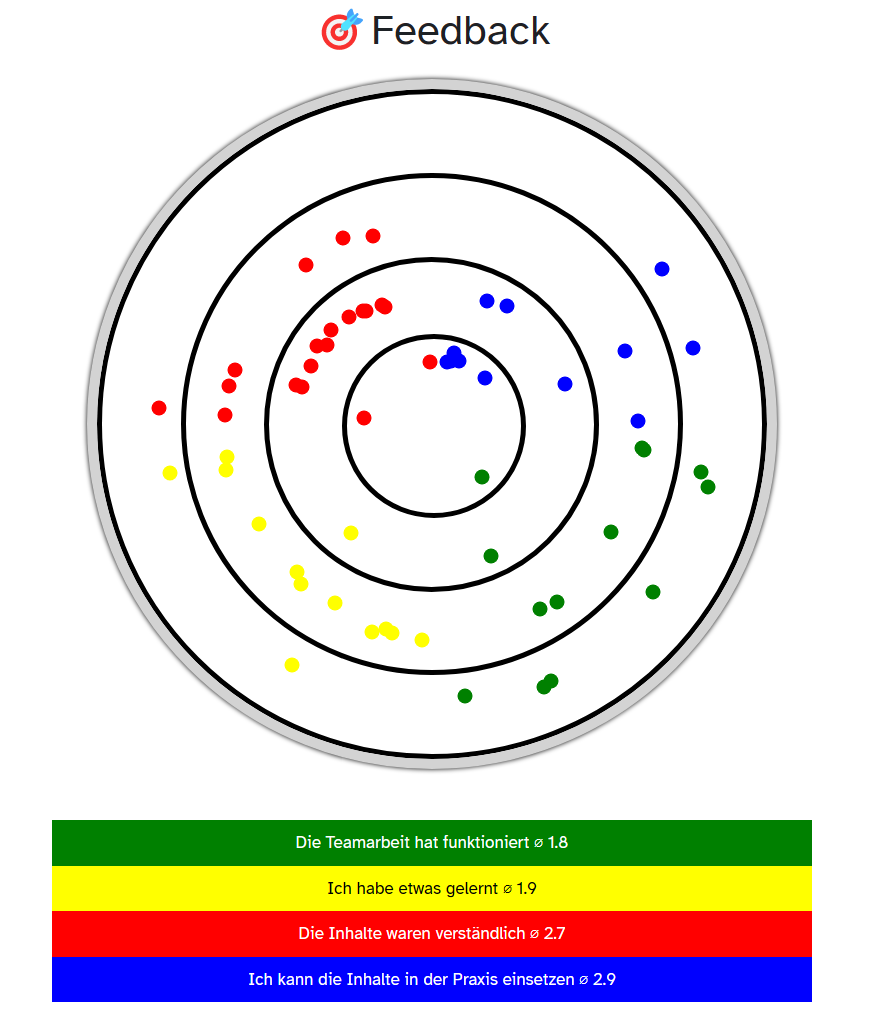
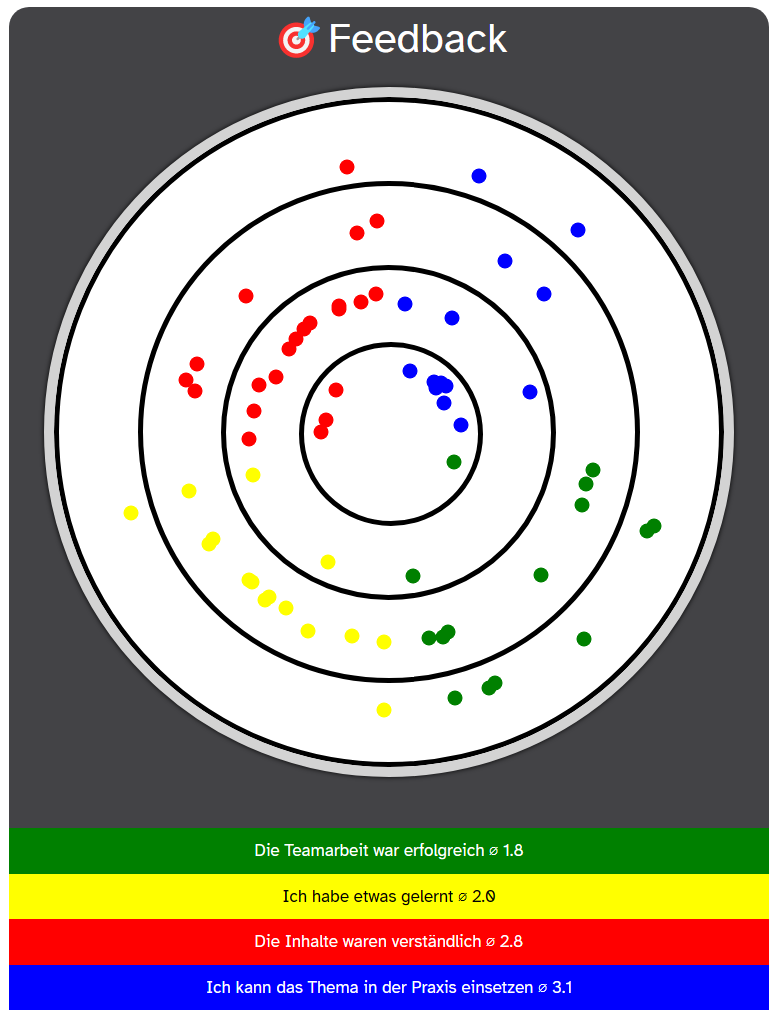
background-color

diff --git a/singletemplate.html b/singletemplate.html
@@ -1,6 +1,5 @@
-<h2>Danke für dein Feedback!</h2>
 ##edit## ##delete##
-<div class="parent">
+<div class="parent"><p style="text-align: center;font-size:42px;color:white">🎯Danke für dein Feedback!</p>
 <div class="zielscheibe">
   <div id="ring1"></div>
   <div id="ring2"></div>

diff --git a/listtemplateheader.html b/listtemplateheader.html
@@ -1,4 +1,4 @@
-<div class="parent"><p style="text-align: center;font-size:42px">🎯Feedback</p>
+<div class="parent"><p style="text-align: center;font-size:42px;color:white">🎯Feedback</p>
 	<div class="zielscheibe">
 		<div id="ring1"></div>
 		<div id="ring2"></div>

diff --git a/csstemplate.css b/csstemplate.css
@@ -3,6 +3,8 @@
   min-width: 760px;
   max-width: 760px;
   margin: 0 auto;
+  background-color: #434346;
+  border-radius: 20px;
 }
 
 .divlabel {
